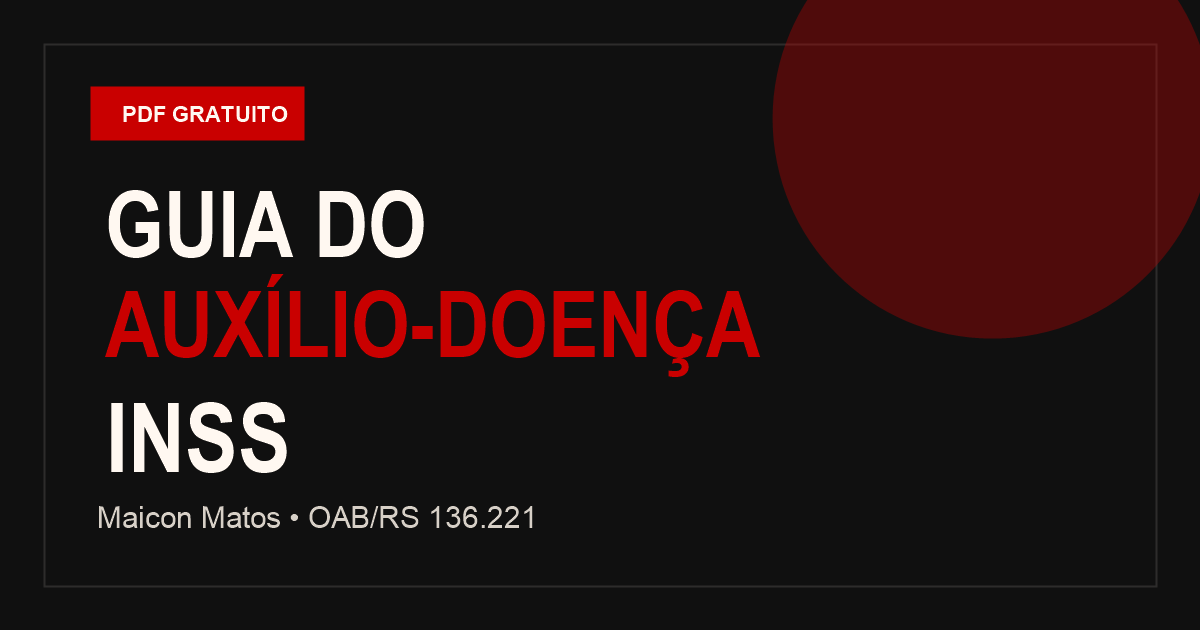
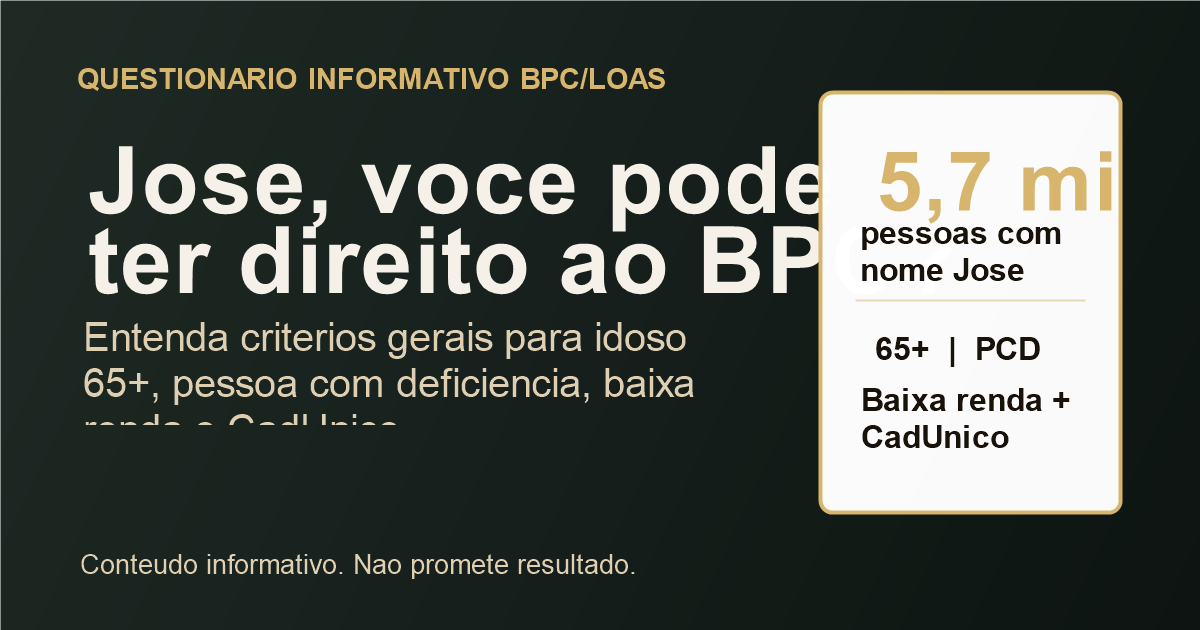
Refresh Jose BPC social preview

diff --git a/src/components/LeadMagnetLanding.tsx b/src/components/LeadMagnetLanding.tsx
@@ -18,6 +18,7 @@ export type LeadMagnetLandingConfig = {
   whatsappTitle: string;
   keyword: string;
   footerProduct: string;
+  ogVersion?: string;
 };
 
 export const leadMagnetLandings: Record<string, LeadMagnetLandingConfig> = {
@@ -211,6 +212,7 @@ export const leadMagnetLandings: Record<string, LeadMagnetLandingConfig> = {
     whatsappTitle: "Para qual WhatsApp envio as informações sobre BPC/LOAS?",
     keyword: "JOSE BPC",
     footerProduct: "este material informativo",
+    ogVersion: "20260529-jose-bpc",
   },
 };
 

diff --git a/src/lib/lead-magnet-head.ts b/src/lib/lead-magnet-head.ts
@@ -4,7 +4,7 @@ const SITE_URL = "https://mmatos.lovable.app";
 
 export function leadMagnetHead(config: LeadMagnetLandingConfig, path: string) {
   const url = `${SITE_URL}${path}`;
-  const image = `${SITE_URL}/og/${config.slug}.png`;
+  const image = `${SITE_URL}/og/${config.slug}.png${config.ogVersion ? `?v=${config.ogVersion}` : ""}`;
   const description = config.heroSub;
 
   return {
